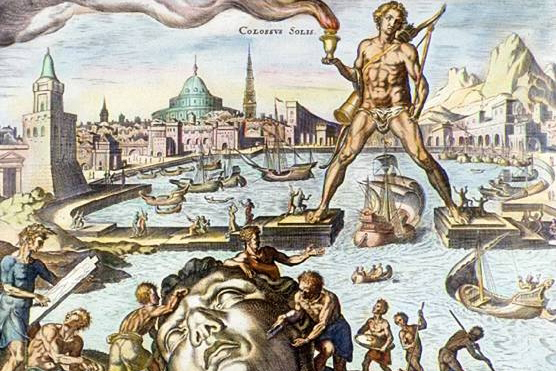
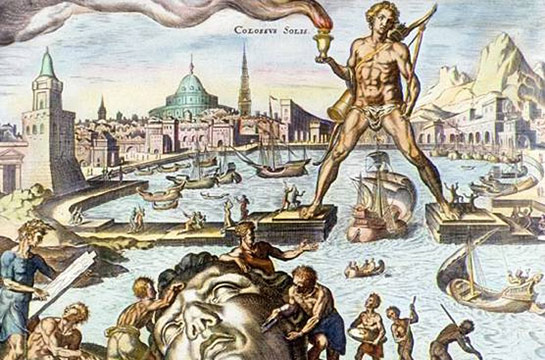
Added cropped images

diff --git a/css/main.css b/css/main.css
@@ -12,6 +12,8 @@ html {
   -webkit-text-size-adjust: 100%;
   text-size-adjust: 100%;
   font-family: "Open Sans", sans-serif;
+
+  background-color: white;
 }
 
 *, *::before, *::after {
